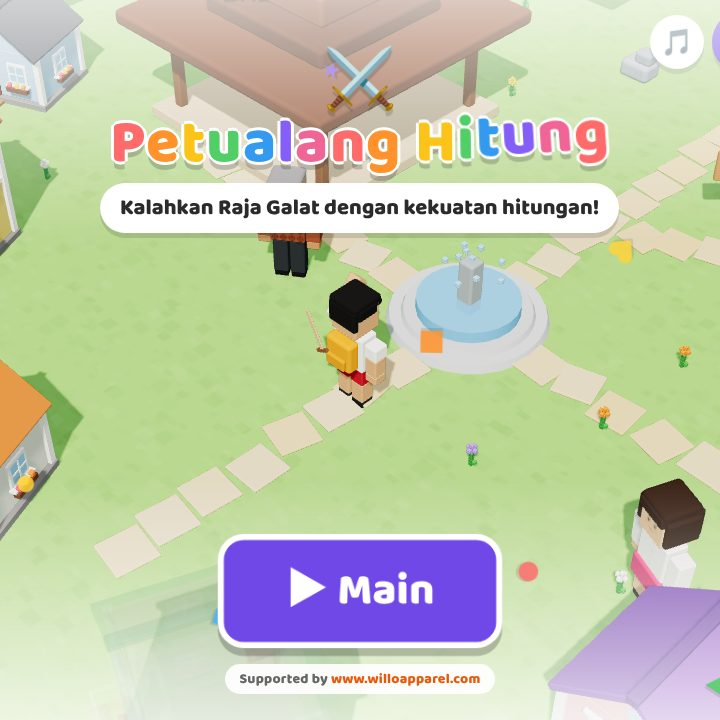
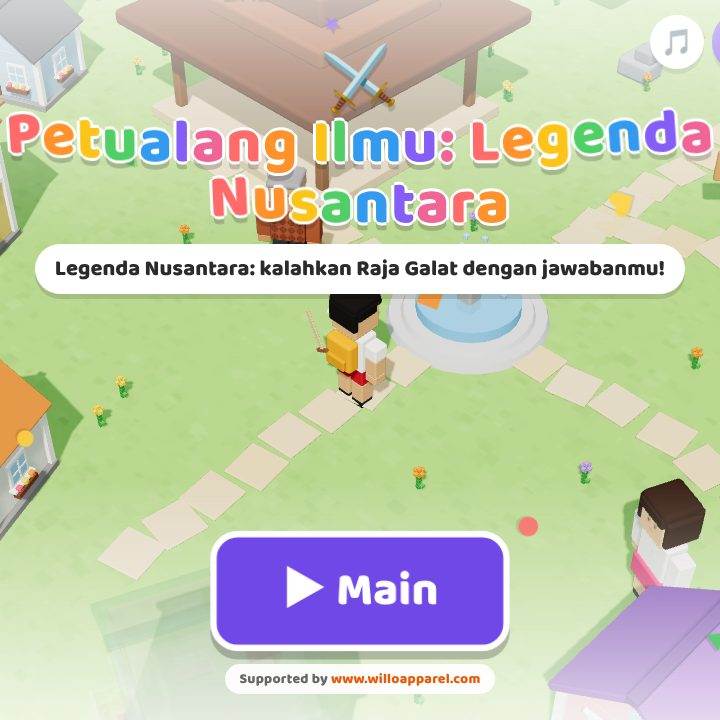
Landing belajar: kartu RPG jadi Petualang Ilmu: Legenda Nusantara (#176)
* Landing game edukasi Dunia Kotak di /duniakotak/belajar/ (PAUD, SD, SMP, SMA)

Satu halaman berisi semua game edukasi per jenjang bergaya Dunia Kotak,
paket offline guru PAUD (lynk.id), banner kaos kelas Willo tanpa harga
dengan WA 0858-1690-0722, dan tulisan Supported by www.willoapparel.com.
Game yang belum tayang tertulis Segera dan otomatis jadi tombol Main
saat halamannya ada. /edukasi, /belajar dialihkan ke halaman ini; tautan
dari beranda Dunia Kotak; masuk sitemap.

Claude-Session: https://claude.ai/code/session_01J2nELGu6D3xEQ1cUdv8crg

* Landing belajar: tombol paket offline SD ke lynk.id

Claude-Session: https://claude.ai/code/session_01J2nELGu6D3xEQ1cUdv8crg

* Landing belajar: link paket PAUD lynk.id baru (tanpa /checkout)

Claude-Session: https://claude.ai/code/session_01J2nELGu6D3xEQ1cUdv8crg

* Landing belajar jadi halaman jualan paket game offline

Tombol utama tiap jenjang = beli paket di lynk.id; tombol Main diganti
Contoh (hanya untuk melihat tampilan). Tambah foto produk, isi paket,
manfaat untuk guru, cuplikan video tutorial, cara pakai, dan FAQ.
Hapus tangkapan layar uji yang ikut ter-commit.

Claude-Session: https://claude.ai/code/session_01J2nELGu6D3xEQ1cUdv8crg

* Game PAUD online jadi versi contoh: 3 soal lalu ajakan beli paket

Di situs (http/https), setelah 3 jawaban benar muncul ajakan beli paket
offline di lynk.id, dan tombol Guru membuka ajakan yang sama. File offline
(file://) dari paket tetap penuh. Link beli bisa diganti per game lewat
[…]

diff --git a/public/duniakotak/belajar/index.html b/public/duniakotak/belajar/index.html
@@ -101,7 +101,7 @@ details p{font-weight:600;font-size:14px;line-height:1.55;margin:8px 0 0}
       <div class="cta">
         <a class="beli" href="#paud">🛒 Paket PAUD</a>
         <a class="beli hijau" href="#sd">🛒 Paket SD</a>
-        <a class="beli" href="#sd-rpg" style="background:#7048e8;color:#fff;box-shadow:0 5px 0 #4c2fb0">⚔ RPG SD baru</a>
+        <a class="beli" href="#sd-rpg" style="background:#7048e8;color:#fff;box-shadow:0 5px 0 #4c2fb0">⚔ RPG SD semua mapel</a>
       </div>
     </div>
     <svg class="kubus" viewBox="0 0 420 210" role="img" aria-label="Tumpukan kotak Dunia Kotak">
@@ -213,27 +213,28 @@ details p{font-weight:600;font-size:14px;line-height:1.55;margin:8px 0 0}
   </section>
 
   <section class="produk" id="sd-rpg" style="--w:#7048e8">
-    <div class="kepala"><small>SD kelas 1 sampai 6 · Fase A, B, C · produk baru</small><h3>Legenda Pulau Angka: RPG Matematika SD</h3></div>
+    <div class="kepala"><small>SD kelas 1 sampai 6 · Fase A, B, C · semua mapel · produk baru</small><h3>Petualang Ilmu: Legenda Nusantara</h3></div>
     <div class="isi">
       <div class="galeri">
-        <img id="besar-rpg" src="aset/rpg-1.jpg" alt="Legenda Pulau Angka, game RPG Matematika SD" width="720" height="720" loading="lazy">
+        <img id="besar-rpg" src="aset/rpg-1.jpg" alt="Petualang Ilmu: Legenda Nusantara, game RPG SD semua mapel" width="720" height="720" loading="lazy">
         <div class="kecil3">
-          <img src="aset/rpg-1.jpg" alt="Layar awal Legenda Pulau Angka" loading="lazy" data-ke="besar-rpg">
+          <img src="aset/rpg-1.jpg" alt="Layar awal Petualang Ilmu: Legenda Nusantara" loading="lazy" data-ke="besar-rpg">
           <img src="aset/rpg-2.jpg" alt="Menjelajah desa dan menerima misi" loading="lazy" data-ke="besar-rpg">
         </div>
       </div>
       <div>
-        <h4>Petualangan RPG yang isinya latihan hitung</h4>
+        <h4>Adventure RPG untuk semua mapel</h4>
         <ul class="dapat">
           <li>Murid menjelajah pulau, bicara dengan warga, dan menjalankan misi bercerita</li>
           <li>Monster dikalahkan dengan menjawab soal: jawab benar untuk menyerang, jawab cepat untuk serangan kritis</li>
           <li>Naik level, kumpulkan Rupiah, belanja di warung dengan uang pas, lalu hadapi Raja Galat</li>
-          <li>Fase A, B, C sesuai kelas, dan soal bisa diganti guru lewat Mode Guru atau tempel dari Excel</li>
+          <li>Soal bawaan Matematika, Bahasa Indonesia, IPAS, Bahasa Inggris, dan Campur. Guru bisa mengganti soal untuk mapel apa saja lewat Mode Guru atau tempel dari Excel</li>
+          <li>Fase A, B, C sesuai kelas</li>
           <li>Satu file HTML, jalan tanpa internet</li>
         </ul>
         <h4>Isi game</h4>
         <ul class="game">
-          <li><span class="ik">⚔</span><span class="nm"><b>Legenda Pulau Angka</b><span>Matematika: bilangan, uang, pecahan, luas dan keliling</span></span><span class="segera" data-contoh="/edukasi/sd/hitung-rpg/">Contoh segera</span></li>
+          <li><span class="ik">⚔</span><span class="nm"><b>Petualang Ilmu: Legenda Nusantara</b><span>Semua mapel: soal bawaan 4 mapel, bisa diganti guru</span></span><span class="segera" data-contoh="/edukasi/sd/hitung-rpg/">Contoh segera</span></li>
         </ul>
         <p style="margin:16px 0 0"><span class="segera">🛒 Pembelian segera dibuka</span></p>
       </div>
